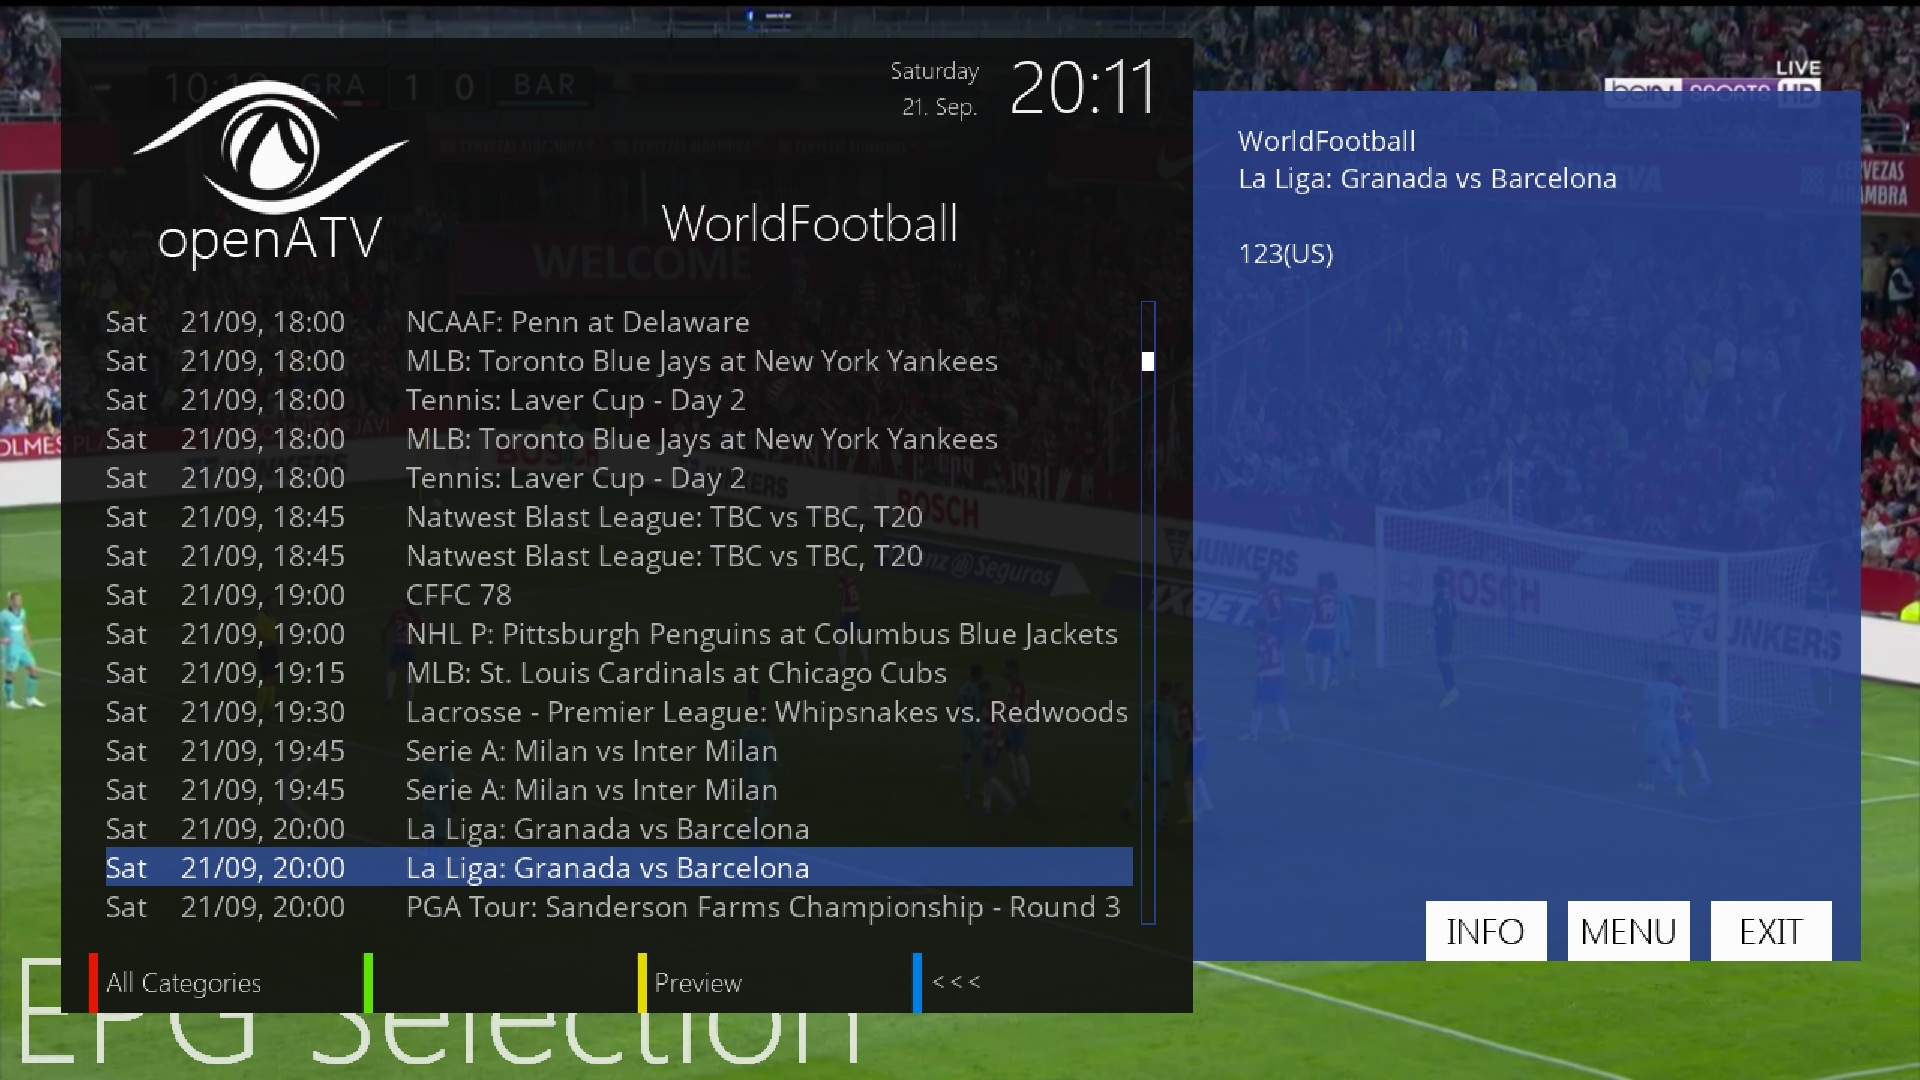
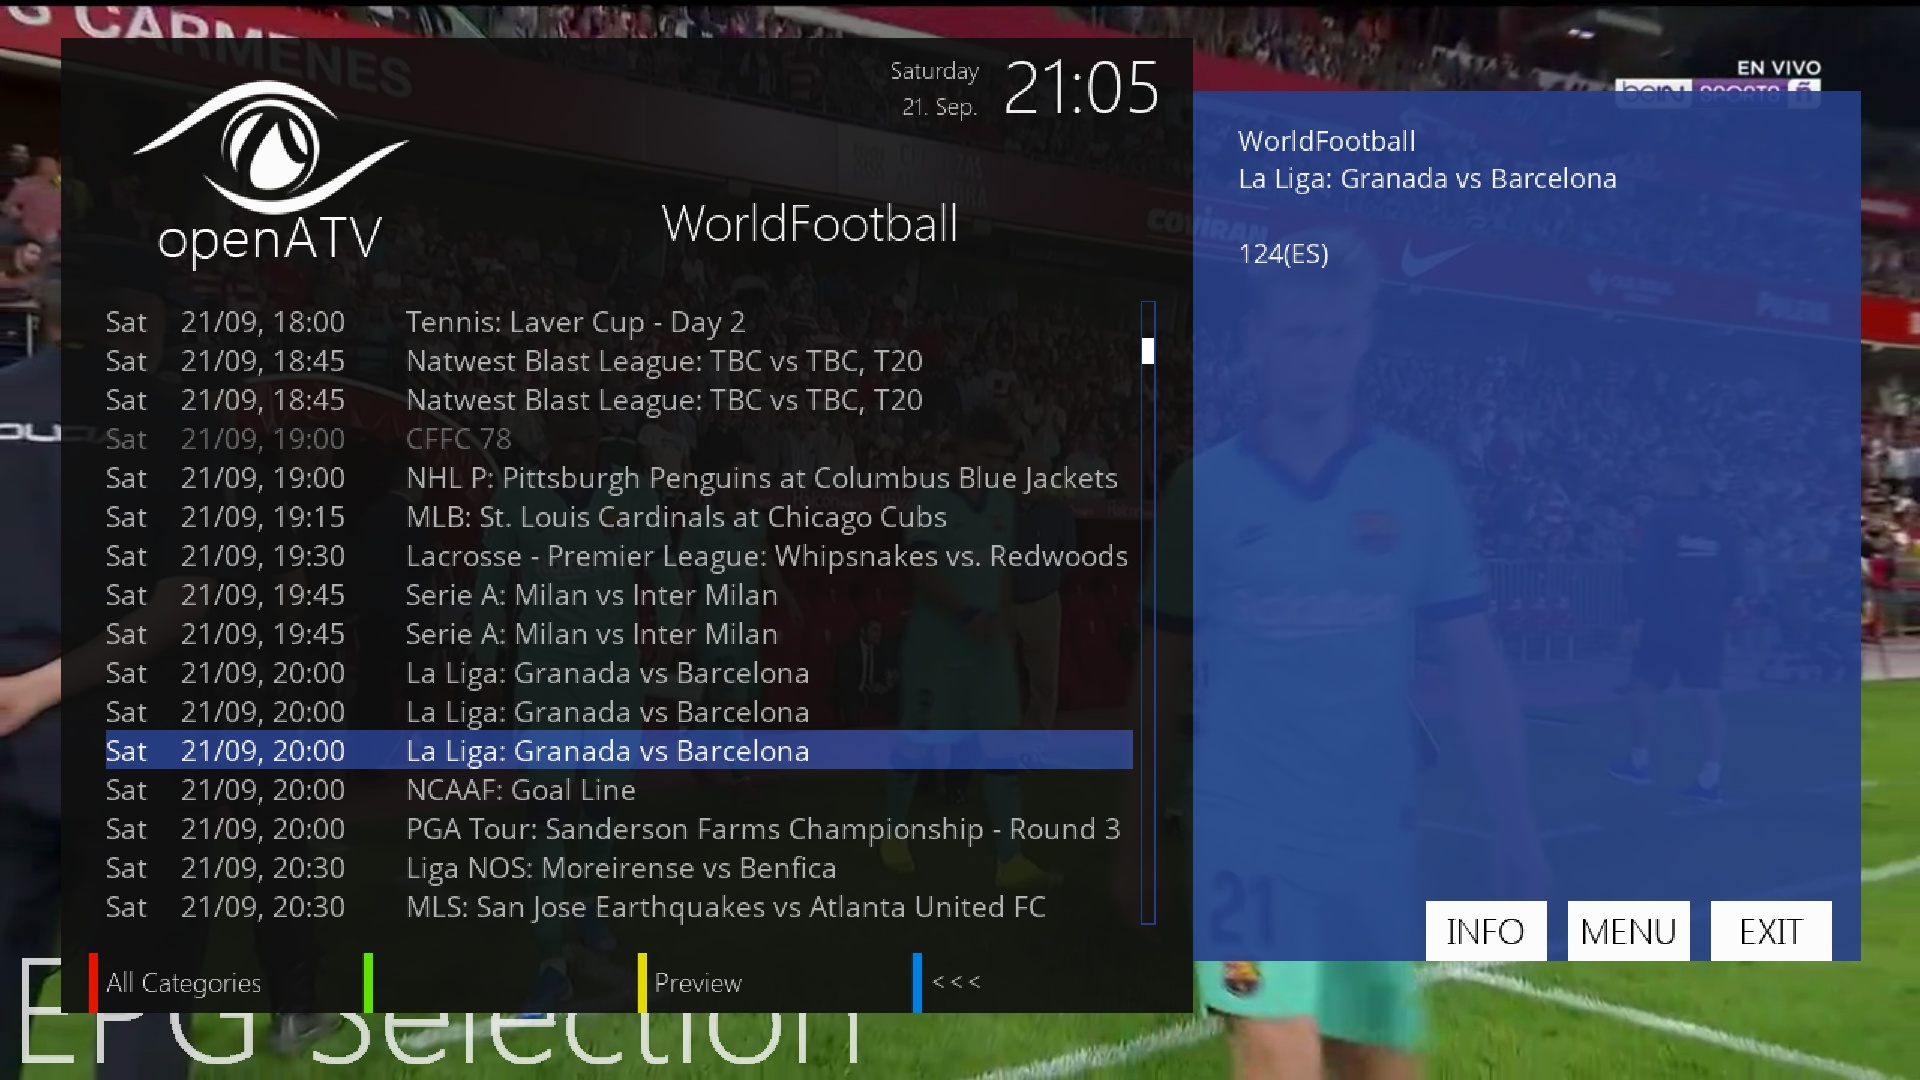
better sorting/grouping of events, alfa then time

diff --git a/plugins/mcdonnells/checksums.md b/plugins/mcdonnells/checksums.md
@@ -1,4 +1,4 @@
-enigma2-plugin-extensions-mcdonnells-6.2.2f.ipk
-MD5 30ae5ea55d5a5ee629d7b3f7678767c0
-SHA db5faeb66ae4a4e80b9aacaa936b7ef283335402
+enigma2-plugin-extensions-mcdonnells-6.2.2g.ipk
+MD5 17019ca55e21e31f20891ad05bb0431b
+SHA 770acc12295d00708ccf32945899fe0867d88a84
 
